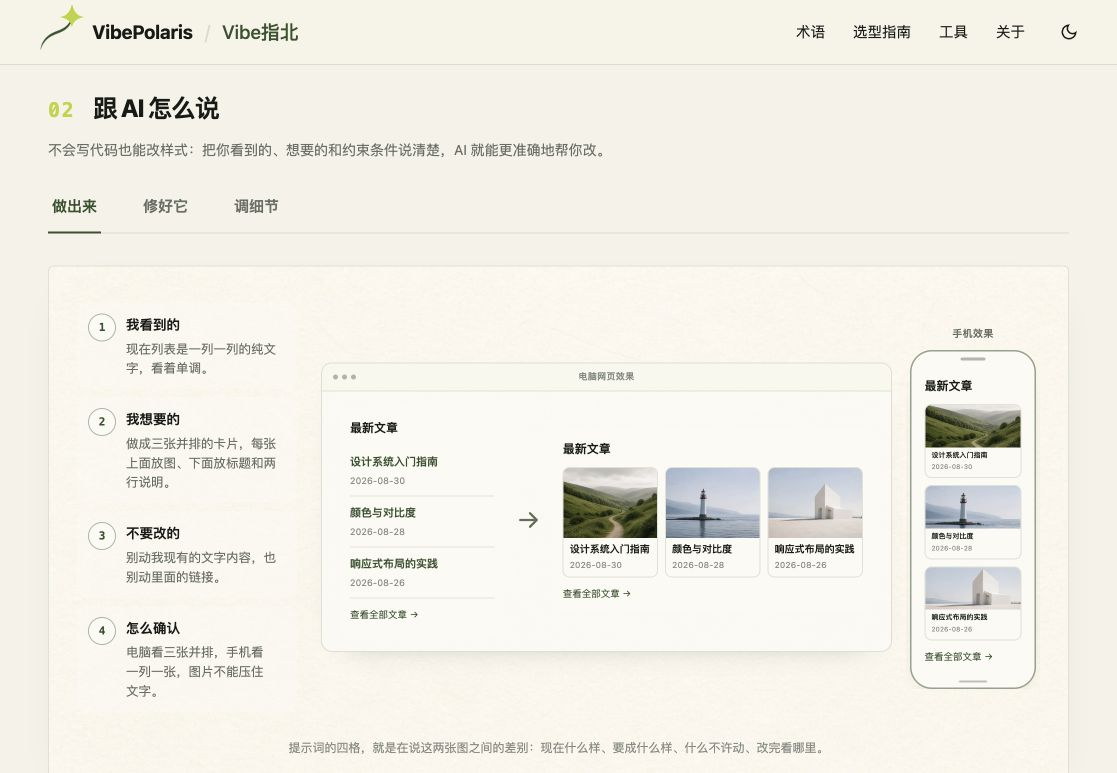
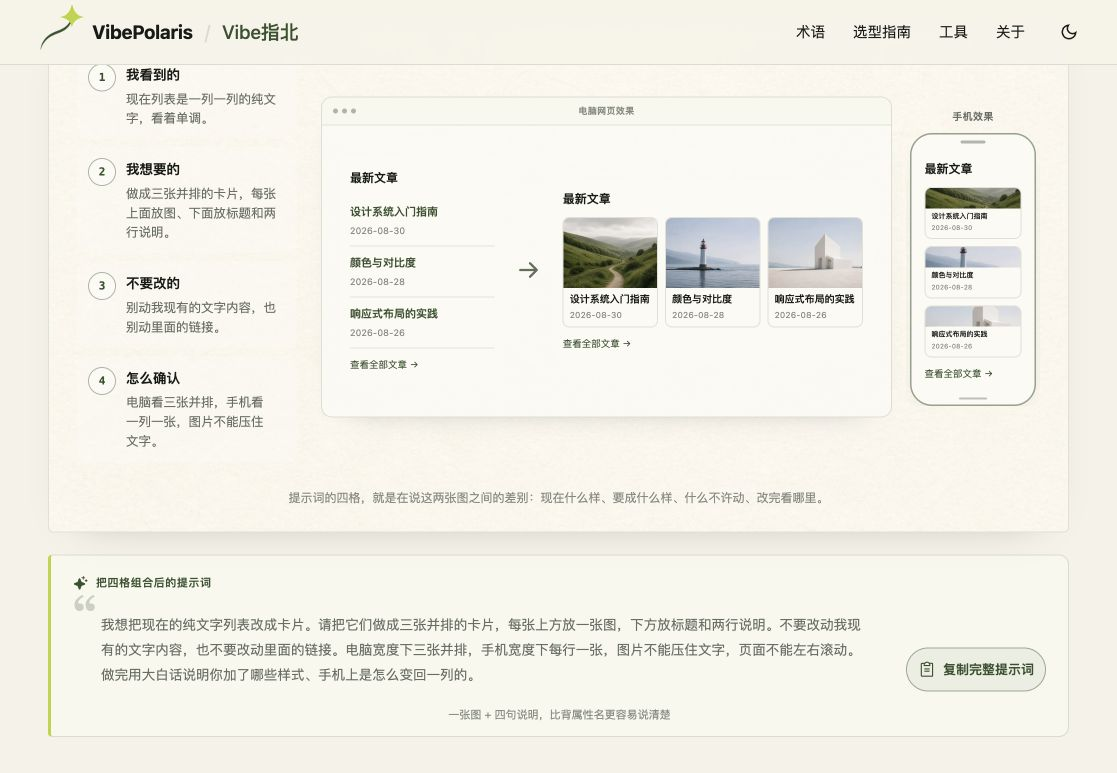
fix(VBP-001): lock CSS preview device ratios

diff --git a/app/globals.css b/app/globals.css
@@ -3133,23 +3133,23 @@ table.cmp td:first-child, table.cmp th:first-child { color: var(--ink); font-wei
 .term-scenario-tabs button.is-active strong { color: var(--accent); }
 .term-ai-canvas { position: relative; display: grid; grid-template-columns: minmax(190px, 220px) minmax(0, 1fr); grid-template-areas: "notes scene" "caption caption"; gap: 24px; align-items: center; margin-top: 32px; min-height: 500px; padding: 36px 28px 24px; background-color: var(--surface); background-image: url("/images/css-ai-guide/paper-texture.jpg"); background-size: cover; border: 1px solid color-mix(in srgb, var(--hairline) 82%, transparent); border-radius: 5px; box-shadow: 0 16px 42px -34px color-mix(in srgb, var(--ink) 42%, transparent); }
 .term-ai-scene { grid-area: scene; display: grid; grid-template-columns: minmax(0, 1fr) 134px; gap: 14px; align-items: center; min-width: 0; }
-.term-ai-desktop-device { min-width: 0; overflow: hidden; border: 1px solid color-mix(in srgb, var(--hairline) 90%, transparent); border-radius: 11px; background: color-mix(in srgb, var(--surface) 80%, transparent); box-shadow: 0 14px 30px -28px color-mix(in srgb, var(--ink) 45%, transparent); }
+.term-ai-desktop-device { display: grid; grid-template-rows: 28px minmax(0, 1fr); min-width: 0; aspect-ratio: 16 / 9; overflow: hidden; border: 1px solid color-mix(in srgb, var(--hairline) 90%, transparent); border-radius: 11px; background: color-mix(in srgb, var(--surface) 80%, transparent); box-shadow: 0 14px 30px -28px color-mix(in srgb, var(--ink) 45%, transparent); }
 .term-ai-device-bar { display: grid; grid-template-columns: 1fr auto 1fr; align-items: center; min-height: 28px; padding: 0 11px; border-bottom: 1px solid color-mix(in srgb, var(--hairline) 80%, transparent); background: color-mix(in srgb, var(--surface) 72%, var(--tint)); color: var(--faint); font-size: 9px; font-weight: 700; letter-spacing: .04em; }
 .term-ai-device-bar > i { width: 24px; }
 .term-ai-device-dots { display: flex; gap: 4px; }
 .term-ai-device-dots i { width: 5px; height: 5px; border-radius: 50%; background: color-mix(in srgb, var(--faint) 62%, transparent); }
-.term-ai-desktop-flow { display: grid; grid-template-columns: minmax(0, .72fr) auto minmax(0, 1.4fr); gap: 12px; align-items: center; min-width: 0; overflow: hidden; padding: 16px 18px 18px; }
+.term-ai-desktop-flow { display: grid; grid-template-columns: minmax(0, .72fr) auto minmax(0, 1.4fr); gap: 12px; align-items: center; min-width: 0; height: 100%; overflow: hidden; padding: 16px 18px 18px; }
 .term-ai-desktop-flow > .term-ai-target { min-width: 0; }
 .term-ai-scene-arrow { flex: none; color: color-mix(in srgb, var(--accent) 48%, var(--faint)); }
 .term-ai-phone-preview { display: grid; gap: 8px; justify-items: center; }
 .term-ai-phone-preview > span { color: var(--muted); font-size: 10px; font-weight: 700; letter-spacing: .04em; }
-.term-ai-phone-device { position: relative; width: 126px; padding: 15px 5px 13px; border: 1.5px solid color-mix(in srgb, var(--accent) 42%, var(--hairline)); border-radius: 22px; background: color-mix(in srgb, var(--surface) 92%, transparent); box-shadow: inset 0 0 0 2px color-mix(in srgb, var(--surface) 70%, transparent), 0 14px 30px -24px color-mix(in srgb, var(--ink) 56%, transparent); }
+.term-ai-phone-device { position: relative; box-sizing: border-box; width: 126px; aspect-ratio: 9 / 19.5; overflow: hidden; padding: 15px 5px 13px; border: 1.5px solid color-mix(in srgb, var(--accent) 42%, var(--hairline)); border-radius: 22px; background: color-mix(in srgb, var(--surface) 92%, transparent); box-shadow: inset 0 0 0 2px color-mix(in srgb, var(--surface) 70%, transparent), 0 14px 30px -24px color-mix(in srgb, var(--ink) 56%, transparent); }
 .term-ai-phone-device::before { content: ""; position: absolute; top: 6px; left: 50%; width: 25px; height: 3px; border-radius: 999px; background: color-mix(in srgb, var(--faint) 62%, transparent); transform: translateX(-50%); }
 .term-ai-phone-device::after { content: ""; position: absolute; bottom: 5px; left: 50%; width: 28px; height: 2px; border-radius: 999px; background: color-mix(in srgb, var(--faint) 52%, transparent); transform: translateX(-50%); }
 .term-ai-scene-caption { grid-area: caption; margin: 2px 0 0; color: var(--faint); font-size: 12px; line-height: 1.65; text-align: center; }
 .term-mini-page { display: grid; gap: 8px; min-width: 0; border-radius: 7px; padding: 10px; background: color-mix(in srgb, var(--surface) 88%, transparent); }
 .term-mini-page.is-wide { width: 100%; }
-.term-mini-page.is-phone { width: 100%; border: 0; border-radius: 14px; padding: 9px 8px 10px; box-shadow: none; }
+.term-mini-page.is-phone { grid-template-rows: auto minmax(0, 1fr) auto; width: 100%; height: 100%; overflow: hidden; border: 0; border-radius: 14px; padding: 9px 8px 10px; box-shadow: none; }
 .term-mini-title { font-size: 12px; color: var(--ink); }
 .term-mini-list { list-style: none; display: grid; gap: 0; }
 .term-mini-list li { display: grid; gap: 2px; border-bottom: 1px solid color-mix(in srgb, var(--hairline) 72%, transparent); padding: 7px 0; }
@@ -3167,8 +3167,9 @@ table.cmp td:first-child, table.cmp th:first-child { color: var(--ink); font-wei
 .term-mini-page.is-phone.is-squeezed .term-mini-cards > span strong { padding: 0 2px; font-size: 6.5px; }
 .term-mini-page.is-phone.is-squeezed .term-mini-cards > span small { display: none; }
 .term-mini-page.is-phone.is-stacked .term-mini-cards { grid-template-columns: 1fr; gap: 7px; }
-.term-mini-page.is-phone.is-stacked .term-mini-cards > span { gap: 3px; }
-.term-mini-page.is-phone.is-stacked .term-mini-cards > span img { aspect-ratio: 2.25 / 1; }
+.term-mini-page.is-phone.is-stacked .term-mini-cards { grid-template-rows: repeat(3, minmax(0, 1fr)); min-height: 0; }
+.term-mini-page.is-phone.is-stacked .term-mini-cards > span { grid-template-rows: minmax(0, 1fr) auto auto; min-height: 0; gap: 3px; }
+.term-mini-page.is-phone.is-stacked .term-mini-cards > span img { height: 100%; aspect-ratio: auto; }
 .term-mini-page.is-phone.is-stacked .term-mini-cards > span strong { font-size: 7px; }
 .term-mini-page.is-phone.is-stacked .term-mini-cards > span small { font-size: 6.5px; }
 .term-mini-link { font-size: 9.5px; color: var(--accent); }
@@ -3661,11 +3662,11 @@ table.cmp td:first-child, table.cmp th:first-child { color: var(--ink); font-wei
   .term-scenario-tabs { gap: 24px; }
   .term-ai-canvas { grid-template-columns: 1fr; grid-template-areas: "notes" "scene" "caption"; gap: 16px; min-height: 0; padding: 22px 16px 24px; }
   .term-ai-scene { grid-template-columns: 1fr; gap: 18px; }
-  .term-ai-desktop-flow { grid-template-columns: 1fr; gap: 10px; padding: 14px; }
-  .term-ai-desktop-flow .term-ai-scene-arrow { justify-self: center; transform: rotate(90deg); }
+  .term-ai-desktop-flow { grid-template-columns: minmax(0, .72fr) auto minmax(0, 1.4fr); gap: 6px; padding: 8px; }
+  .term-ai-desktop-flow .term-ai-scene-arrow { width: 16px; height: 16px; justify-self: center; }
   .term-ai-desktop-flow .term-mini-page.is-wide { width: 100%; }
   .term-ai-phone-preview { border-top: 1px solid color-mix(in srgb, var(--hairline) 76%, transparent); padding-top: 16px; }
-  .term-ai-phone-device { width: min(100%, 194px); padding: 17px 7px 15px; border-radius: 28px; }
+  .term-ai-phone-device { width: min(100%, 156px); padding: 17px 7px 15px; border-radius: 26px; }
   .term-ai-scene-caption { margin-top: 16px; }
   .term-ai-notes { grid-template-columns: repeat(2, minmax(0, 1fr)); gap: 8px; align-content: start; }
   .term-ai-note-trigger { height: 100%; min-height: 94px; padding: 10px 8px; }

diff --git a/docs/design/qa/css-ai-note-rail-2026-09-01/design-qa.md b/docs/design/qa/css-ai-note-rail-2026-09-01/design-qa.md
@@ -9,10 +9,11 @@
 ## 布局
 
 - 桌面端将 1–4 编号、标题和说明文字合并为左侧单列，右侧只保留前后与手机效果。
-- 电脑效果使用带三颗窗口控制点和标题栏的浏览器外框；手机效果使用带听筒、圆角机身和底部手势条的手机外框。
+- 电脑效果使用固定 16:9、带三颗窗口控制点和标题栏的浏览器外框；手机效果使用固定 9:19.5、带听筒、圆角机身和底部手势条的全面屏手机外框。
 - 手机端四项说明在画面上方排成两列，随后展示效果图。
 - 桌面端说明列为 220px，效果区为 719px；手机端说明列为 154px × 2。
 - 两个视口的页面横向溢出均为 0px。
+- 实测桌面视口中的电脑框为 571 × 321.19px，手机框为 126 × 273px；390px 视口中的电脑框为 316 × 177.75px，手机框缩至 156 × 338px，比例均保持不变。
 
 ## 交互
 
